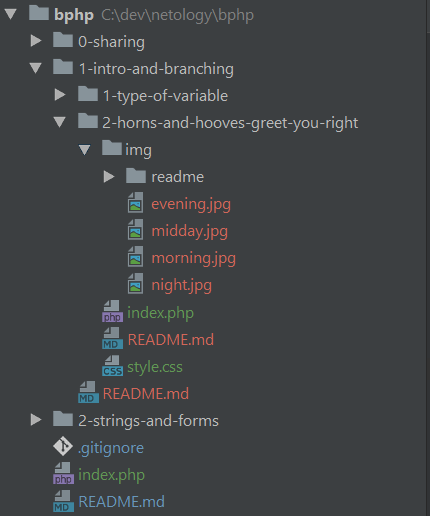
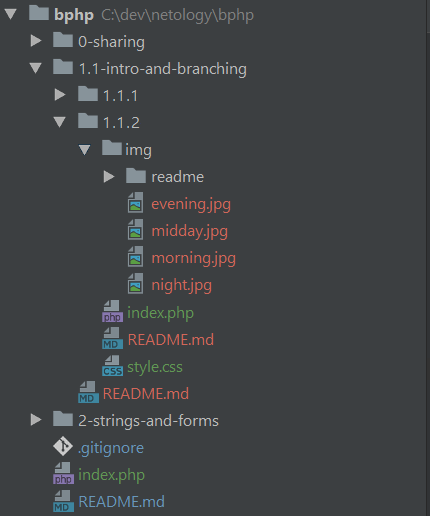
# add 1.1.0

Changed region(s): [[0.2116, 0.124, 0.8465, 0.2481]]

diff --git a/index.php b/index.php
@@ -10,6 +10,7 @@
         <ul>
             <li>Занятие 1.1. Знакомство с PHP
                 <ul>
+                    <li><a href="1.1-intro-and-branching/1.1.0">Задание 1.1.0</a></li>
                     <li><a href="1.1-intro-and-branching/1.1.1">Задание 1.1.1</a></li>
                     <li><a href="1.1-intro-and-branching/1.1.2">Задание 1.1.2</a></li>
                 </ul>

diff --git a/1.1-intro-and-branching/1.1.0/README.md b/1.1-intro-and-branching/1.1.0/README.md
@@ -1,0 +1,165 @@
+# Задание 0 - Hello, World!
+
+## Общие положения:
+1. Во всех инструкциях приведены примеры работы с определенным программным обеспечением и хостингом. 
+Для другого программного обеспечения и хостинга инструкции нами приведены не будут, однако, это не значит, что Вы не можете ими пользоваться.
+2. Эта домашняя работа служит для пояснения, как работать с php, git, vscode, MAMP без каких-либо пояснений. 
+Предполагается, что она выполняется теми, кто не знает совершенно как работать и что делать.
+3. В инструкции приняты некоторые допущения:
+   - на компьютере установлена операционная система семейства Windows (наиболее распространена среди новичков);
+   - проект будет располагаться на компьютере в директории `c:/dev/netology/bphp/homeworks`.
+
+## Задание
+
+Обязательная часть - Вывести на странице сообщение `Hello, World!` c помощью команды `echo`.
+
+Необязательная часть - Вывести на странице сообщение `Hello, World!` c помощью команды `echo`. Сообщение должно находиться в центре, на странице должно быть фоновое изображение.
+
+## Алгоритм выполнения.
+
+### 1. Установка программного обепечения
+1. Для выполнения домашних заданий подойдёт любой редактор кода, однако все примеры рассматриваются на примере [VS Code](https://code.visualstudio.com). Если он у Вас не установлен, перейдите по [ссылке](https://code.visualstudio.com), скачайте и установите его.  
+2. Для работы с удалёнными (от слова "дальний") репозиториями Вам потребуется [GIT](https://git-scm.com). Если он у Вас не установлен, перейдите по [ссылке](https://git-scm.com), скачайте и установите его.
+3. Для выполнения php-скриптов на вашем компьютере Вам потребуется локальный веб-сервер. Если вы самостоятельно не можете установить или настроить веб-сервер, ниже рассмотрен пример настройки пакета [MAMP](https://www.mamp.info/en/). Для его работы Вам потребуется установить его.
+
+### 2. Регистрация на GitHub. Создание репозитория
+1. Если Вы еще не зарегестрированы на [https://github.com](https://github.com), зарегистрируйтесь
+2. Если Вы не авторизованы на [https://github.com](https://github.com), авторизуйтесь.
+3. Пройдите по ссылке: [https://github.com/netology-code/bphp-homeworks](https://github.com/netology-code/bphp-homeworks)
+4. Создайте форк репозитория в свой профиль
+![](img/readme/1.png)
+5. Скопируйте ссылку на форк репозитория
+![](img/readme/2.png)
+6. Запустите git bash
+![](img/readme/6.png)
+7. Выполните команду:
+`git clone <скопированная ссылка> c:/dev/netology/bphp/homeworks`
+![](img/readme/7.png)
+
+### 4. Настройка локального сервера
+
+Существует несколько [LAMP](https://ru.wikipedia.org/wiki/LAMP)
+
+Рассмотрим настройку на примере [MAMP](https://www.mamp.info/en/)
+
+Предположим, у Вас на компьютере установлен пакет MAMP.
+
+1. Откройте программу настройки и запуска сервера:
+![](img/readme/8.png)
+2. Если сервер включен (надпись `Stop servers`), отключите:
+![](img/readme/9.png)
+3. Перейдите `MAMP -> Preference`
+4. На вкладке `Web Servers` измените `Document root` - выберите `c:/dev/netology/bphp/homeworks`:
+![](img/readme/10.png)
+   и нажмите "ОК"
+5. Нажмите "Start servers"
+6. Нажмите "Open Webstart Page"
+7. В адресе открывшейся страницы удалите текст `/MAMP/`
+![](img/readme/11.png)
+8. И перейдите на страницу по получившемуся адресу:
+![](img/readme/12.png)
+9. Не закрывайте браузер.
+
+### 5. Написание кода. Часть 1
+1. Откройте VSCode
+2. Выберите: `File`->`Open Folder`
+3. Выберите директорию (папку), в которой хранится ваш проект
+![](img/readme/3.png)
+![](img/readme/4.png)
+4. Создайте файл `index.php` в директории `1.1-intro-and-branching/1.1.0`
+![](img/readme/5.png)
+5. Напишите в этом файле `<?php echo 'Hello, World!';`
+6. Сохраните изменения
+7. Вернитесь в браузер
+8. Выберите пункт меню `Задание 1.1.0`
+![](img/readme/13.png)
+
+
+### 6. Написание кода. Часть 2
+1. Перейдите по [ссылке](https://pixabay.com/ru/photos/компьютер-компьютерный-код-экран-1209641/)
+2. Скачайте изображение
+3. Скопируйте файл с изображением в директорию `1.1-intro-and-branching/1.1.0/img`. 
+Переименуйте файл с изображением в `1.jpg`;
+4. Создайте файл `style.css` в директории `1.1-intro-and-branching/1.1.0`
+5. В файле `style.css` напишите следующий код, после чего сохраните:
+```css
+body,html{
+    margin: 0;
+    padding: 0;
+}
+
+html{
+    height: 0;
+}
+
+.img {
+    width: 100%;
+    height: 100vh;
+    display: flex;
+    justify-content: center;
+    align-items: center;
+    background-size: cover;
+    background-position-x: center;
+    background-position-y: center;
+}
+
+.greeting{
+    background: rgba(255, 255, 255, 0.5);
+    padding: 12px 24px;
+    border-radius: 6px;
+    text-align: center;
+}
+
+h1, h2 {
+    margin: 0;
+    padding: 12px;
+}
+
+h1 + h2 {
+    border-top: 1px solid;
+}
+```
+6. В файле `index.php` удалите написанное и напишите следующий код, после чего сохраните:
+```php
+<?php 
+$text = 'Hello, world!';
+$image = 'img/1.jpg';
+?>
+
+<!DOCTYPE html>
+<html lang="en">
+<head>
+    <meta charset="UTF-8">
+    <title>bPHP - 1.1.2</title>
+    <link rel="stylesheet" type="text/css" href="style.css">
+</head>
+<body>
+    <div class="img" style="background-image: url(<?= $image; ?>)">
+        <div class="greeting">
+            <h1><?= $text; ?></h1>
+        </div>
+    </div>
+</body>
+</html>
+```
+7. Обновите страницу в браузере:
+![](img/readme/14.png)
+
+### 7. Подготовка работы к сдаче
+1. Для того, чтобы передать изменения в удаленный репозиторий, откройте git bash и выполните команды:
+   - `cd c:/dev/netology/bphp/homeworks`
+   - `git add .`
+   - `git commit -m 'task 1.1.0 done'`
+   - `git push`
+![](img/readme/15.png)
+2. Разместите файлы задания на хостинг в соответствии с [инструкцией](../../0-sharing/homework/hosting).
+
+### 8. Сдача работы
+1. Отправьте проверяющему в сообщении ссылку на репозиторий
+2. Отправьте проверяющему в сообщении ссылку на хостинге
+
+### 9. Внесение изменений
+1. Перед внесением изменений в код обновите код на локальной машине с репозитория нетологии:
+   - `cd c:/dev/netology/bphp/homeworks`
+   - `git remote add origin https://github.com/netology-code/bphp-homeworks`
+2. После внесения изменений в программный код не забудьте выполнить пункты 7 и 8

diff --git a/2.2-OOP/2.2.2/README.md b/2.2-OOP/2.2.2/README.md
@@ -25,12 +25,20 @@
 - classes/JsonFileAccessModel.php
 - config/SystemConfig.php
 
+**Подсказки:**
+1. Используйте функции для методов:
+   - `fopen()` - для открытия потока чтения-записи;
+   - `fread()` - для чтения содержимого файлов;
+   - `fwrite()` - для записи в файл;
+   - `filesize()` - для определения размера файла;
+   - `fclose()` - для закрытия потока чтения-записи в файл.
+2. В классе SystemConfig константа DATABASE_PATH должна отображать путь до директории с json-файлом.
+
 **В задании требуется:**
-1. Скопировать файлы из первого задания
-2. В классе SystemConfig должна находиться константа `DATABASE_PATH = '/files/database/'
-3. В начале файла index.php должны быть подключены автозагрузка и настройки
-4. Реализовать класс JsonFileAccessModel
-5. Проверить его работоспособность: создать файл с JSON-объектом, в файле index.php создать экземпляр  класса и вывести на экран результат загрузки, сохранить JSON-объект в файл.
+1. Подключить файлы autoload.php и SystemConfig.php в начале файла index.php (именно в этом порядке)
+2. В начале файла index.php должны быть подключены автозагрузка и настройки
+3. Реализовать класс JsonFileAccessModel
+4. Проверить его работоспособность: создать файл с JSON-объектом, в файле index.php создать экземпляр  класса и вывести на экран результат загрузки (например, с помощью `print_r`), сохранить JSON-объект в файл.
 
 
 **Описание методов `JsonFileAccessModel`**
@@ -44,5 +52,5 @@
 
 ## Дополнительно, по желанию
 Разделить класс `JsonFileAccessModel` на два:
-- `FileAccessModel` - connect(), disconnect(), read() и write(), конструктор принимает как аргумент полный путь к файлу;
-- `JsonFileAccessModel` - дочерний от `FileAccessModel`, поведение остается прежним.
+- `FileAccessModel` - connect(), disconnect(), read() и write(). конструктор принимает как аргумент полный путь к файлу;
+- `JsonFileAccessModel` - дочерний от `FileAccessModel`, поведение остается прежним, но из методов описаны в классе только readJson() и writeJson().

diff --git a/0-sharing/homework/README.md b/0-sharing/homework/README.md
@@ -1,11 +1,16 @@
 # Общие рекомендации по выполнению домашних работ для слушателей.
 
 ## Структура проекта.
+
+Прежде всего - для выполнения домашних работ трекомендуется сделать форк этого проекта, впоследствии вносить изменения в форке.
+
 Все домашние задания и указания по их выполнению находятся в одном проекте.
+
+Для начала работы с домашними заданиями клонируйте репозиторий с домашними заданиями.
 
 Чтобы не происходило путанницы, задания следует разделять:
 - верхний уровень - номер и наименование занятия.
-- второй уровень - номер и наименование задания.
+- второй уровень - номер задания.
 
 Внутри папки с заданием находится файл `README.md` с указанием к выполнению работы.
 
@@ -38,8 +43,8 @@
         <ul>
             <li>Занятие 1.1. Знакомство с PHP
                 <ul>
-                    <li><a href="1-intro-and-branching/1-type-of-variable">Задание 1.1.1</a></li>
-                    <li><a href="1-intro-and-branching/2-horns-and-hooves-greet-you-right">Задание 1.1.2</a></li>
+                    <li><a href="1.1-intro-and-branching/1.1.1">Задание 1.1.1</a></li>
+                    <li><a href="1.1-intro-and-branching/1.1.2">Задание 1.1.2</a></li>
                 </ul>
             </li>
         </ul>
@@ -53,7 +58,7 @@
 
 Изначально в этом файле есть ссылки на папки заданий по первой лекции.
 
-При появлении новых решений, этот файл дополняется слушателем.
+При появлении новых решений этот файл дополняется слушателем.
 
 Оглавление на странице выглядит так:
 

diff --git a/1.1-intro-and-branching/README.md b/1.1-intro-and-branching/README.md
@@ -6,6 +6,7 @@
 Для получения зачёта требуется выполнить только обязательную часть заданий (без "Дополнительно, по желанию"), однако рекомендуется хотя бы попытаться выполнить расширенную часть.
 
 Необходимо выполнить и предоставить на проверку следующие задачи:
+0. [Задание 0 - Hello, World!](1.1.0) - необязательное, только для тех, кто не знает с чего начать.
 1. [Задание 1 - Определение типа переменной](1.1.1)
 2. [Задание 2 - Horns&Hooves приветствует Вас правильно!](1.1.2)
 
